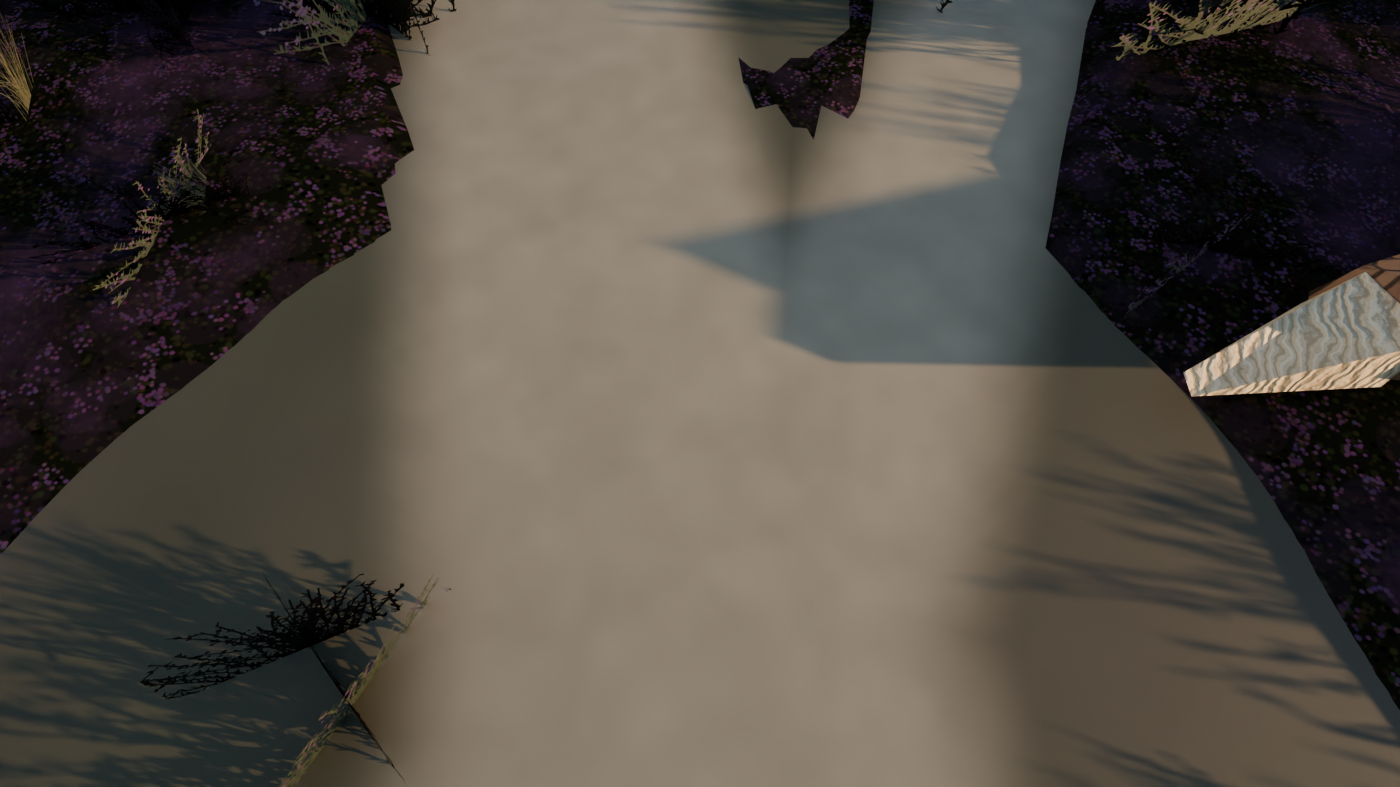
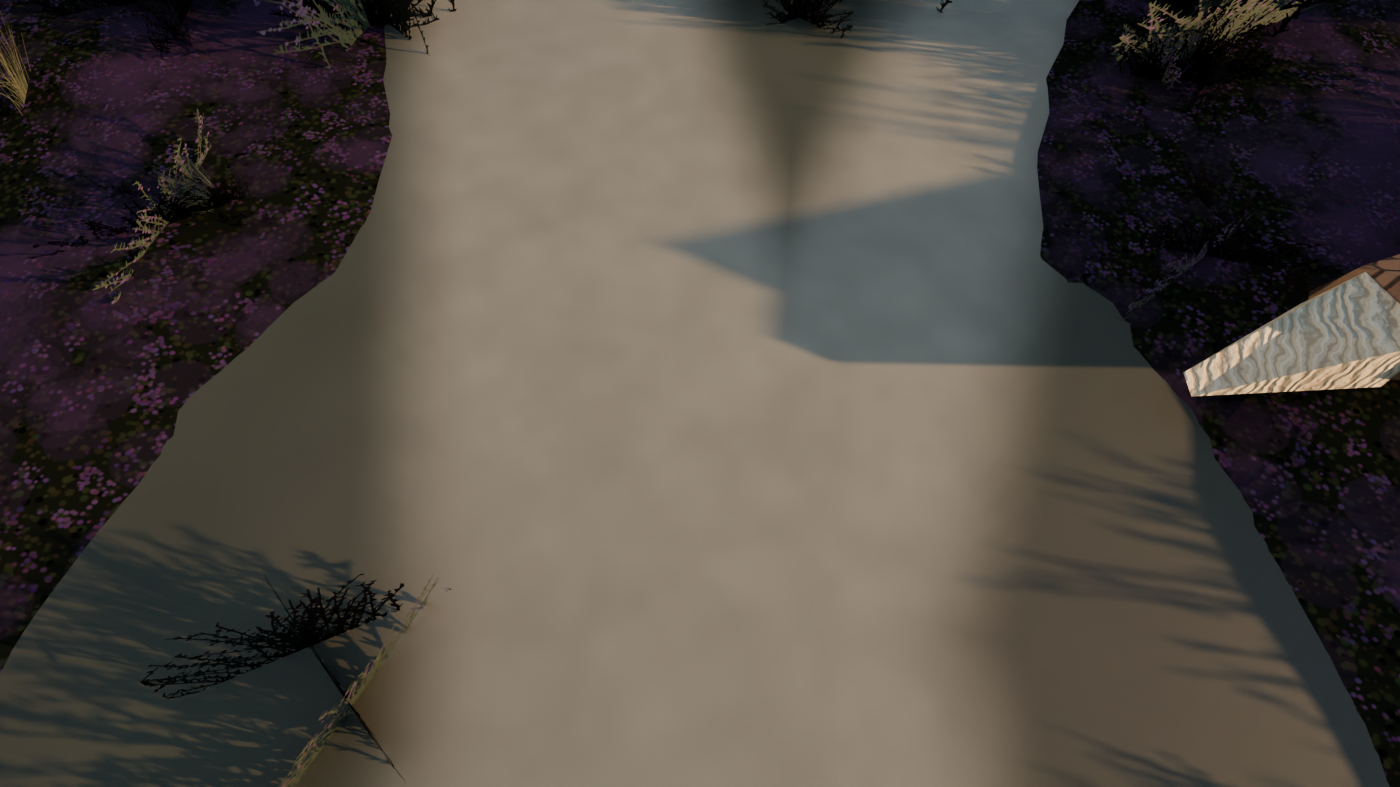
Horsell sand pits: cards-only pine crowns, softer heath canopy edges
Drop the opaque pine crown masses (they read as blocks against the sky): mid and far pines get fewer, larger,
flatter needle-pad cards. The heath canopy tapers into the ground over about a metre at tracks and sand (blurred
cover), is a little lighter and more purple, and a fringe of heather cards lines the track edges within 10 m.
Alpha card faces 4353 (was 13692 before the diet); reader view 2.46 screens (was 6.76), surround 7.53 (was 22.1).
Export 43.4k triangles (was 48.5k). veg.crown.pinemass removed.

diff --git a/blender/build_horsell_sandpits.py b/blender/build_horsell_sandpits.py
@@ -23,8 +23,7 @@ Everything is procedural (no downloaded models, textures or HDRIs). Foliage is a
 (pine-needle sprays, ling heather in bloom, heath grass, gorse, bracken) with soft custom normals, kept lean for the
 Quest's tile GPU (alpha-tested overdraw is the cost): heather and grass cards only within ~10 m of the reader (and
 nothing tall in the first metres ahead), rising out of an opaque lumpy heather canopy that carries the heath out to
-36 m; pine crowns are opaque lumpy needle masses with fewer, larger cards round them (far pines: masses only, a few
-cards); gorse bushes have opaque cores; the ground and sky
+36 m; mid and far pine crowns are fewer, much larger, flatter needle cards; gorse bushes have opaque cores; the ground and sky
 are painted in numpy into their own UV layouts (the ground in log-polar UVs, texel density highest at the reader's
 feet); the cylinder, bark and splintered wood are node materials baked to textures. Static meshes merge by material;
 glTF export with lights for Unity (helpers in wotw_kit.py).
@@ -39,7 +38,6 @@ Node names Unity relies on:
   Living scenes (docs/LIVING_SCENES.md), vertex colour R = sway weight (0 at roots/trunk, 1 at tips):
     veg.crown.pines (the pine crowns), veg.shrub.heather, veg.shrub.gorse, veg.grass.heath, veg.leaves.bracken
     sound.birds.0 / sound.birds.1 (in the pines ahead and behind), sound.wind-trees.0 (the pine group on the right)
-  veg.crown.pinemass: the opaque crown masses (sway weights like the crown cards)
   MESH_HeathMound (the opaque heather canopy), MESH_GorseMound (gorse cores): static, opaque
   MESH_Mist: two soft alpha-blended mist sheets (in the pit and the hollow); no shadows, not lightmapped.
 
@@ -385,11 +383,11 @@ def heath_mound_tex(N=512, seed=15):
         _wrap_dot(img, (rs.uniform(0, N), rs.uniform(0, N)), rs.uniform(1.0, 1.8), (0.10, 0.065, 0.042))
     for k in range(700):                                                  # holes into the canopy's shade
         _wrap_dot(img, (rs.uniform(0, N), rs.uniform(0, N)), rs.uniform(1.5, 3.5), (0.01, 0.01, 0.008))
-    img[..., :3] *= 0.3                                                   # a canopy full of its own shadow
+    img[..., :3] *= 0.4                                                   # a canopy full of its own shadow
     for k in range(30):                                                   # drifts of bloom, readable from 10-30 m
         cx, cy = rs.uniform(0, N), rs.uniform(0, N)
         for i in range(8):
-            _wrap_dot(img, (cx + rs.gauss(0, 30), cy + rs.gauss(0, 30)), rs.uniform(18, 34), (0.05, 0.026, 0.045), 0.16)
+            _wrap_dot(img, (cx + rs.gauss(0, 30), cy + rs.gauss(0, 30)), rs.uniform(18, 34), (0.06, 0.03, 0.055), 0.22)
     for k in range(240):
         cx, cy = rs.uniform(0, N), rs.uniform(0, N); b = rs.uniform(0.5, 0.9)
         for i in range(rs.randint(6, 16)):
@@ -407,30 +405,6 @@ def gorse_mound_tex(N=256, seed=17):
     for k in range(110):
         _wrap_dot(img, (rs.uniform(0, N), rs.uniform(0, N)), rs.uniform(1.0, 1.8), (0.62, 0.42, 0.02))
     img[..., :3] *= 0.4
-    img[..., 3] = 1.0
-    return img
-
-def pinemass_tex(atlas, N=512, seed=19):
-    """The inside of a Scots-pine crown as the opaque masses carry it: a dense mat of blue-green needle tufts (stars of
-    short strokes in the needle cards' own colours) over deep shadow; tiles (strokes wrap round the edges)."""
-    rs = random.Random(seed); img = np.zeros((N, N, 4), np.float32)
-    solid = atlas[..., 3] > 0.6
-    cols = atlas[solid][:, :3]; lum = cols.sum(1)
-    greens = cols[(cols[:, 1] >= cols[:, 0]) & (lum > np.percentile(lum, 30))]          # needles, not the orange twigs
-    base = greens.mean(0) * 0.30
-    img[...] = (base[0], base[1], base[2], 1.0)
-    def stroke(p0, p1, w0, w1, c):
-        for ox in (-N, 0, N):
-            for oy in (-N, 0, N):
-                if -20 < p0[0] + ox < N + 20 and -20 < p0[1] + oy < N + 20:
-                    paint_stroke(img, (p0[0] + ox, p0[1] + oy), (p1[0] + ox, p1[1] + oy), w0, w1, c)
-    for k in range(1500):
-        cx, cy = rs.uniform(0, N), rs.uniform(0, N)
-        c = greens[rs.randrange(len(greens))] * rs.uniform(0.45, 1.0)
-        for i in range(rs.randint(6, 11)):
-            a = rs.uniform(0, TWO_PI); L = rs.uniform(5, 11)
-            stroke((cx, cy), (cx + math.cos(a) * L, cy + math.sin(a) * L), 1.6, 0.8, c)
-    img[..., :3] *= 0.6                                                   # the crown's inside is in its own shade
     img[..., 3] = 1.0
     return img
 
@@ -726,15 +700,13 @@ M_SPLIT = splinter_mat()
 
 # ----------------------------------------------------------------------------- foliage materials (numpy atlases)
 print("painting foliage ...")
-NEEDLE_RGBA = needle_atlas()
-M_NEEDLES = K.card_material("M_PineNeedles", K.image_from("T_PineNeedles", NEEDLE_RGBA), rough=0.8)
+M_NEEDLES = K.card_material("M_PineNeedles", K.image_from("T_PineNeedles", needle_atlas()), rough=0.8)
 M_HEATHER = K.card_material("M_Heather", K.image_from("T_Heather", heather_atlas()), rough=0.85)
 # opaque stand-ins (the foliage diet for the Quest: alpha-tested overdraw is what costs on its tile GPU):
-# lumpy pine-crown masses inside thinner card crowns, and low heather / gorse mounds where the cards stop
-M_PINEMASS = K.card_material("M_PineMass", K.image_from("T_PineMass", pinemass_tex(NEEDLE_RGBA)), rough=0.85, clip=False, double=False, repeat=True)
+# the heather canopy the near cards rise out of, and the gorse bushes' cores
 M_HEATHMOUND = K.card_material("M_HeathMound", K.image_from("T_HeathMound", heath_mound_tex()), rough=0.9, clip=False, double=False, repeat=True)
 M_GORSEMOUND = K.card_material("M_GorseMound", K.image_from("T_GorseMound", gorse_mound_tex()), rough=0.85, clip=False, double=False, repeat=True)
-for _m in (M_PINEMASS, M_HEATHMOUND, M_GORSEMOUND):        # a mat of needles or shoots has no glossy skin (no grazing sheen
+for _m in (M_HEATHMOUND, M_GORSEMOUND):        # a mat of needles or shoots has no glossy skin (no grazing sheen
     _b = next(n for n in _m.node_tree.nodes if n.type == 'BSDF_PRINCIPLED')   # toward the low sun)
     _b.inputs["Specular IOR Level"].default_value = 0.0; _b.inputs["Roughness"].default_value = 1.0
 M_GRASS = K.card_material("M_HeathGrass", K.image_from("T_HeathGrass", grass_atlas()), rough=0.85)
@@ -778,8 +750,8 @@ BARK = BarkMesh()
 CROWNS = CardMesh("veg.crown.pines")
 
 class MassMesh(CardMesh):
-    """Opaque lumpy masses with shared vertices, custom (soft) normals, sway weights and tiled UVs: the crown masses
-    inside the pines' card crowns and the low heather / gorse mounds."""
+    """Opaque lumpy masses with shared vertices, custom (soft) normals and tiled UVs: the heather canopy and the
+    gorse bushes' cores."""
     def vert(self, p, n, w):
         self.normals.append(Vector(n).normalized()); self.weights.append(w)
         return self.bm.verts.new(p)
@@ -790,42 +762,9 @@ class MassMesh(CardMesh):
         f.smooth = True
         return f
 
-PINEMASS = MassMesh("veg.crown.pinemass")
 HEATHMOUND = MassMesh("HeathMound"); GORSEMOUND = MassMesh("GorseMound")
 
-def crown_nw(q, crown_c, crown_r):
-    """The soft card normal and sway weight of a crown point (as pad() gives its cards)."""
-    nn = (q - crown_c); nn.z *= 0.6
-    nn = (nn.normalized() * 0.75 + Vector((0, 0, 0.45))).normalized()
-    hd = Vector((q.x - crown_c.x, q.y - crown_c.y, 0)).length
-    return nn, max(0.15, min(1.0, 0.25 + 0.75 * hd / max(crown_r, 0.5)))
-
-def crown_mass(c, rx, ry, rz, yaw, crown_c, crown_r, rs, seg=8, lump=0.22, tile=1.1):
-    """A lumpy, flat-bottomed ellipsoid of needles (a branch's foliage plate seen from 10-80 m): 2 rings + 2 poles."""
-    ca, sa = math.cos(yaw), math.sin(yaw)
-    def P(lx, ly, lz): return c + Vector((lx * ca - ly * sa, lx * sa + ly * ca, lz))
-    rings = []; rows = (math.radians(-28), math.radians(32))
-    for e in rows:
-        ring = []
-        for i in range(seg):
-            a = TWO_PI * (i + 0.5 * (e > 0)) / seg
-            k = (1 + lump * rs.gauss(0, 1)) * (1.0 if i % 2 else 0.74)      # a star of tufts, not a smooth plate
-            q = P(math.cos(e) * math.cos(a) * rx * k, math.cos(e) * math.sin(a) * ry * k, math.sin(e) * rz * (0.6 if e < 0 else 1.0) * k)
-            nn, w = crown_nw(q, crown_c, crown_r)
-            ring.append(PINEMASS.vert(q, nn, w))
-        rings.append(ring)
-    bot = P(0, 0, -rz * 0.5); top = P(rs.gauss(0, rx * 0.15), rs.gauss(0, ry * 0.15), rz * (1 + lump * abs(rs.gauss(0, 1))))
-    vb = PINEMASS.vert(bot, *crown_nw(bot, crown_c, crown_r)); vt = PINEMASS.vert(top, *crown_nw(top, crown_c, crown_r))
-    ku = max(1, round(TWO_PI * max(rx, ry) / tile)); kv = 1.0 / tile; v0 = rs.random()
-    def uv(i, row): return (ku * i / seg + v0, v0 + [0.0, rz * 1.1 * kv][row])
-    for i in range(seg):
-        j = (i + 1) % seg
-        PINEMASS.face([vb, rings[0][j], rings[0][i]], [(ku * (i + 0.5) / seg + v0, v0 - 0.4 * rz * kv), uv(i + 1, 0), uv(i, 0)])
-        PINEMASS.face([rings[0][i], rings[0][j], rings[1][i]], [uv(i, 0), uv(i + 1, 0), uv(i + 0.5, 1)])
-        PINEMASS.face([rings[0][j], rings[1][j], rings[1][i]], [uv(i + 1, 0), uv(i + 1.5, 1), uv(i + 0.5, 1)])
-        PINEMASS.face([rings[1][i], rings[1][j], vt], [uv(i + 0.5, 1), uv(i + 1.5, 1), (ku * (i + 1) / seg + v0, v0 + 1.9 * rz * kv)])
-
-def pad(cm, centre, radius, crown_c, crown_r, rs, ncards, flat=0.55, lean=None):
+def pad(cm, centre, radius, crown_c, crown_r, rs, ncards, flat=0.55, lean=None, up=0.85):
     """A clump of needle sprays: cards facing outward and up from the pad centre, normals from the crown's centre."""
     for k in range(ncards):
         d = Vector((rs.gauss(0, 1), rs.gauss(0, 1), rs.gauss(0, 1) * flat)).normalized()
@@ -833,7 +772,7 @@ def pad(cm, centre, radius, crown_c, crown_r, rs, ncards, flat=0.55, lean=None):
         p = centre + d * radius * rs.uniform(0.15, 0.7)
         out = (p - centre).normalized() if (p - centre).length > 1e-3 else Vector((0, 0, 1))
         if lean is not None: out = (out + lean * 0.8).normalized()
-        nrm_card = (out * 0.95 + Vector((0, 0, 0.85))).normalized()
+        nrm_card = (out * 0.95 + Vector((0, 0, up))).normalized()
         tang = nrm_card.cross(Vector((rs.uniform(-1, 1), rs.uniform(-1, 1), rs.uniform(-0.3, 0.3)))).normalized()
         if tang.length < 0.5: tang = nrm_card.orthogonal().normalized()
         bit = nrm_card.cross(tang).normalized()
@@ -891,36 +830,27 @@ def pine(x, y, H, CRr, lod, seed):
         b2 = b0 + d * reach + Vector((0, 0, reach * rise + rs.uniform(-0.3, 0.4)))
         if lod >= 1:
             BARK.tube([tuple(b0), tuple(b1), tuple(b2)], [0.07 + 0.03 * (1 - t), 0.045, 0.018], 5 if lod == 2 else 4, [t, t, t])
-        # each branch's foliage plate: an opaque lumpy mass (the dense inside), ragged at the edge with a few large
-        # needle cards (near pines more, mid pines fewer, far pines none: their outline against the sky is the mass's)
-        mc = b0 + (b2 - b0) * (0.92 if lod else 0.8) + Vector((0, 0, 0.3))
-        mr = CRr * rs.uniform(0.30, 0.38) * {2: 0.3, 1: 0.36, 0: 0.95}[lod]
-        crown_mass(mc, mr * 1.2, mr * 0.95, mr * (0.6 if lod == 0 else 0.8), a, crown_c, CRr, rs)
+        # each branch's foliage plate: needle cards only (opaque masses read as blocks against the sky). Near pines
+        # keep the many-card crowns; mid and far pines get fewer, much larger, flatter cards (Scots pine's layered pads)
         npads = {2: 3, 1: 2, 0: 1}[lod]
         for j in range(npads):
             u = 1.0 - j * 0.3
             pc = b0 + (b2 - b0) * u + Vector((rs.gauss(0, 0.25), rs.gauss(0, 0.25), 0.3 + rs.uniform(-0.35, 0.5)))
-            pr = CRr * rs.uniform(0.30, 0.40) * (1.0 - 0.15 * j) * {2: 1.25, 1: 1.35, 0: 1.1}[lod]
-            pad(CROWNS, pc, pr, crown_c, CRr, rs, {2: 7, 1: 6, 0: 3}[lod], flat=0.5, lean=d * 0.3)
+            pr = CRr * rs.uniform(0.30, 0.40) * (1.0 - 0.15 * j) * {2: 1.25, 1: 1.6, 0: 1.75}[lod]
+            pad(CROWNS, pc, pr, crown_c, CRr, rs, {2: 7, 1: 6, 0: 5}[lod], flat=0.5 if lod == 2 else 0.25, lean=d * 0.3,
+                up={2: 0.85, 1: 1.6, 0: 1.6}[lod])
     # foliage through the crown's volume, so it reads as one irregular mass with holes rather than separate tufts
     zc0, zc1 = z0 + H * (crown_base + 0.12), z0 + H * 0.93
-    for k in range({2: 0, 1: 2, 0: 4}[lod]):
-        a = rs.uniform(0, TWO_PI); rr = CRr * 0.4 * math.sqrt(rs.random())
-        zz = zc0 + (zc1 - zc0) * rs.random() ** 0.8
-        taper = 1.0 - 0.5 * ((zz - zc0) / max(zc1 - zc0, 0.1)) ** 2
-        pc = Vector((x + math.cos(a) * rr * taper, y + math.sin(a) * rr * taper, zz)) + lean * (zz - z0)
-        r_ = CRr * rs.uniform(0.28, 0.36) * (0.45 if lod else 1.0)
-        crown_mass(pc, r_ * (1.1 if lod == 0 else 0.8), r_ * (1.0 if lod == 0 else 0.75), r_ * 0.6, rs.uniform(0, TWO_PI), crown_c, CRr, rs)
-    nfill = {2: 7, 1: 3, 0: 0}[lod]
+    nfill = {2: 7, 1: 5, 0: 3}[lod]
     for k in range(nfill):
         a = rs.uniform(0, TWO_PI); rr = CRr * 0.62 * math.sqrt(rs.random())
         zz = zc0 + (zc1 - zc0) * rs.random() ** 0.8
         taper = 1.0 - 0.5 * ((zz - zc0) / max(zc1 - zc0, 0.1)) ** 2
         pc = Vector((x + math.cos(a) * rr * taper, y + math.sin(a) * rr * taper, zz)) + lean * (zz - z0)
-        pad(CROWNS, pc, CRr * rs.uniform(0.30, 0.40), crown_c, CRr, rs, {2: 6, 1: 5}[lod], flat=0.55)
+        pad(CROWNS, pc, CRr * rs.uniform(0.30, 0.40) * (1.0 if lod == 2 else 1.4), crown_c, CRr, rs, {2: 6, 1: 5, 0: 4}[lod],
+            flat=0.55 if lod == 2 else 0.3, up=0.85 if lod == 2 else 1.4)
     # the leader and the topmost cloud
-    crown_mass(ctop + Vector((0, 0, -0.1)), CRr * 0.28, CRr * 0.24, CRr * 0.2, rs.uniform(0, TWO_PI), crown_c, CRr, rs)
-    pad(CROWNS, ctop + Vector((0, 0, 0.1)), CRr * 0.36, crown_c, CRr, rs, {2: 8, 1: 6, 0: 4}[lod], flat=0.6)
+    pad(CROWNS, ctop + Vector((0, 0, 0.1)), CRr * (0.36 if lod == 2 else 0.45), crown_c, CRr, rs, {2: 8, 1: 6, 0: 4}[lod], flat=0.6)
 
 for k, (x, y, H, CRr, lod) in enumerate(PINES):
     pine(x, y, H, CRr * 1.2, lod, 100 + k)
@@ -974,7 +904,6 @@ splinters()
 
 BARK.finish("Bark", M_BARK)
 CROWN_OBJ = CROWNS.finish(M_NEEDLES)
-PINEMASS.finish(M_PINEMASS)
 # the fallen crown pieces must not sway: zero their weight (they lie on the ground)
 cw = CROWN_OBJ.data.color_attributes["Col"].data
 for i, v in enumerate(CROWN_OBJ.data.vertices):
@@ -1089,6 +1018,23 @@ for ring_r0, ring_r1, cell in ((0.7, NEAR_CARDS + 1.5, 0.8), (NEAR_CARDS - 0.5, 
                 g = rs.uniform(0.35, 0.6) * (1 + r / 40) * (0.6 if (r < 2.4 and ahead_) else 1.0)
                 clump(GRASS, x, y, g * 0.9, g, 2, rs, [0, 1, 2, 3], sink=0.02, tilt=0.5)
                 counts["grass"] += 1
+# a fringe of heather cards along the track edges near the reader, softening where the canopy dips to the sand
+for pts, hw in TRACKS:
+    for (ax, ay), (bx, by) in zip(pts, pts[1:]):
+        L = math.hypot(bx - ax, by - ay); nx, ny = -(by - ay) / L, (bx - ax) / L
+        for k in range(int(L / 0.75)):
+            t = (k + rs.random()) * 0.75 / L
+            for side in (-1, 1):
+                off = hw + rs.uniform(0.35, 0.8)
+                x = ax + (bx - ax) * t + nx * off * side; y = ay + (by - ay) * t + ny * off * side
+                r = math.hypot(x, y)
+                if r < 1.8 or r > NEAR_CARDS or rs.random() < 0.35: continue
+                if r < 2.6 and abs((math.degrees(math.atan2(x, y)) - LOOK_AZ + 180) % 360 - 180) < 75: continue
+                if math.hypot(x - CR[0], y - CR[1]) < RC + 1.5 or float(sand_cover(x, y)) > 0.5: continue
+                if float(track_mask(x, y)) > 0.3: continue
+                w = rs.uniform(0.45, 0.75)
+                clump(HEATHER, x, y, w, w * rs.uniform(0.5, 0.7), 3, rs, [0, 1, 2, 3], tilt=0.45)
+                counts["heather"] += 1
 print("heather clumps", counts)
 
 def heath_canopy(mm, r0=1.0, r1=36.0, NS=144, tile=1.4):
@@ -1102,11 +1048,16 @@ def heath_canopy(mm, r0=1.0, r1=36.0, NS=144, tile=1.4):
     for k, r in enumerate(rs_):
         jit = np.array([math.sin(i * 2.7 + k * 1.3) for i in range(NS)]) * (TWO_PI * r / NS) * 0.25
         x = r * np.cos(th) + jit * np.sin(th); y = r * np.sin(th) - jit * np.cos(th)
-        hd = heather_density(x, y)
+        def cover(px, py): return sstep(0.12, 0.6, heather_density(px, py)) * (1 - 0.85 * sand_cover(px, py))
+        # blurred cover (a ring of samples 0.9 m out): the sheet tapers into the ground over a metre or so at the
+        # tracks and the sand instead of ending in a cut edge
+        cv = cover(x, y) * 0.3
+        for q in range(7):
+            ang = TWO_PI * q / 7; cv = cv + 0.1 * cover(x + 0.9 * math.cos(ang), y + 0.9 * math.sin(ang))
+        taper = np.clip(cv, 0, 1) ** 1.6
         fine = fbm(x / 0.9 + 3, y / 0.9 + 1, 2, seed=31); coarse = fbm(x / 3.0, y / 3.0, 2, seed=32)
-        h = (0.14 + 0.24 * coarse + 0.16 * fine) * sstep(0.12, 0.6, hd) * (1 - 0.85 * sand_cover(x, y))
-        h = h * (0.45 + 0.55 * sstep(6.0, 10.0, r)) + 0.10 * (fine - 0.5) * sstep(0.12, 0.6, hd)
-        h = h * sstep(r0, r0 + 1.2, r) * sstep(r1, r1 - 3.0, r) - 0.10
+        h = (0.12 + 0.24 * coarse + 0.16 * fine) * (0.45 + 0.55 * sstep(6.0, 10.0, r)) + 0.08 * (fine - 0.5)
+        h = h * taper * sstep(r0, r0 + 1.2, r) * sstep(r1, r1 - 3.0, r) - 0.06
         z = gz(x, y) + h
         grid.append([mm.vert(Vector((float(a), float(b), float(c))), (0, 0, 1), 0.0) for a, b, c in zip(x, y, z)])
     verts = [v for row in grid for v in row]
@@ -1270,6 +1221,6 @@ if args.bake or args.export:
                       keep_names={"M_SkyDome": "SkyDome", "M_FarLand": "far.land", "M_DistantTrees": "far.treeline", "M_Ground": "MESH_Ground",
                                   "M_PineNeedles": "veg.crown.pines", "M_Heather": "veg.shrub.heather", "M_HeathGrass": "veg.grass.heath",
                                   "M_Gorse": "veg.shrub.gorse", "M_Bracken": "veg.leaves.bracken", "M_Mist": "MESH_Mist",
-                                  "M_PineMass": "veg.crown.pinemass", "M_HeathMound": "MESH_HeathMound", "M_GorseMound": "MESH_GorseMound"},
+                                  "M_HeathMound": "MESH_HeathMound", "M_GorseMound": "MESH_GorseMound"},
                       cams=cams, blend_name="horsell_sandpits_baked.blend")
 print("DONE")
